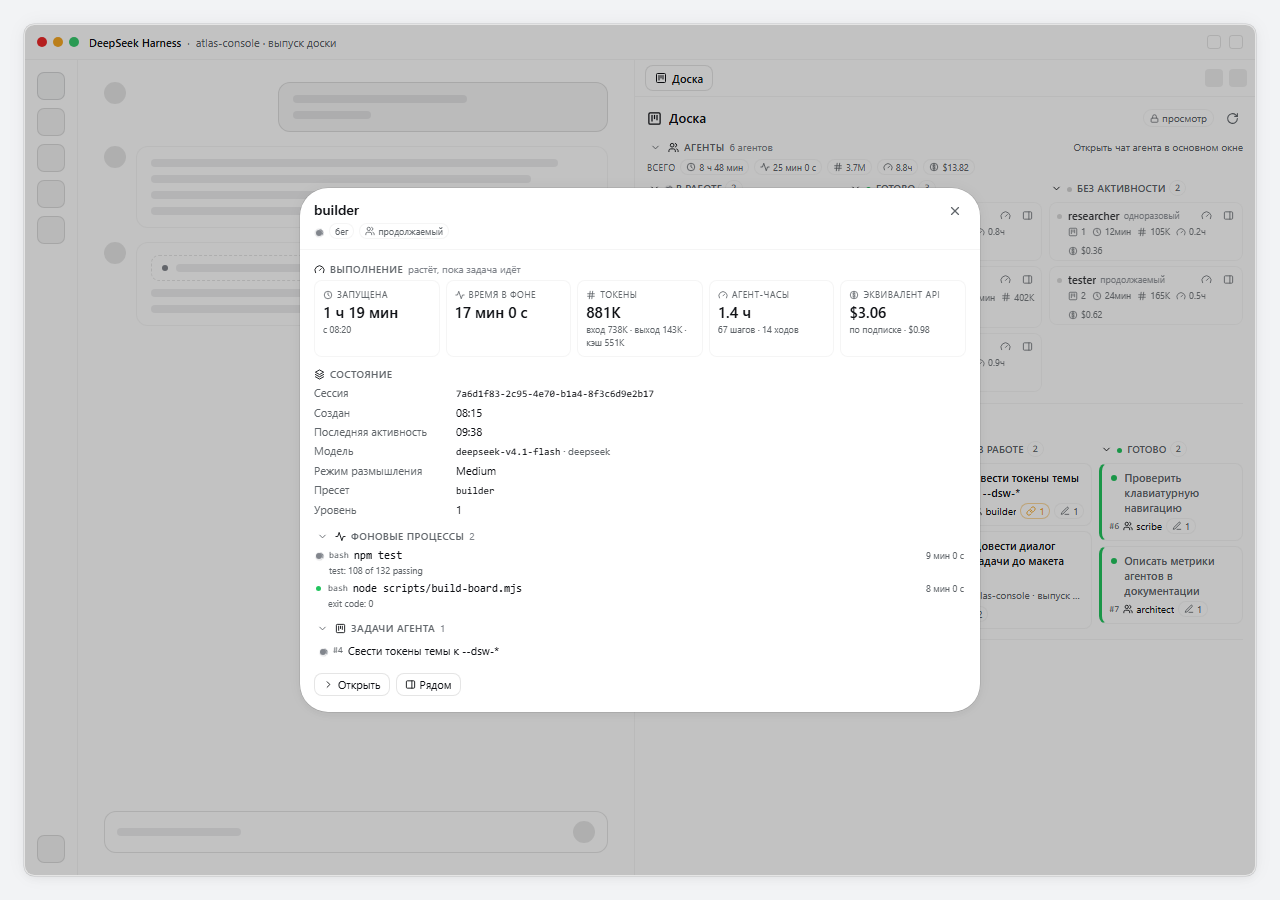
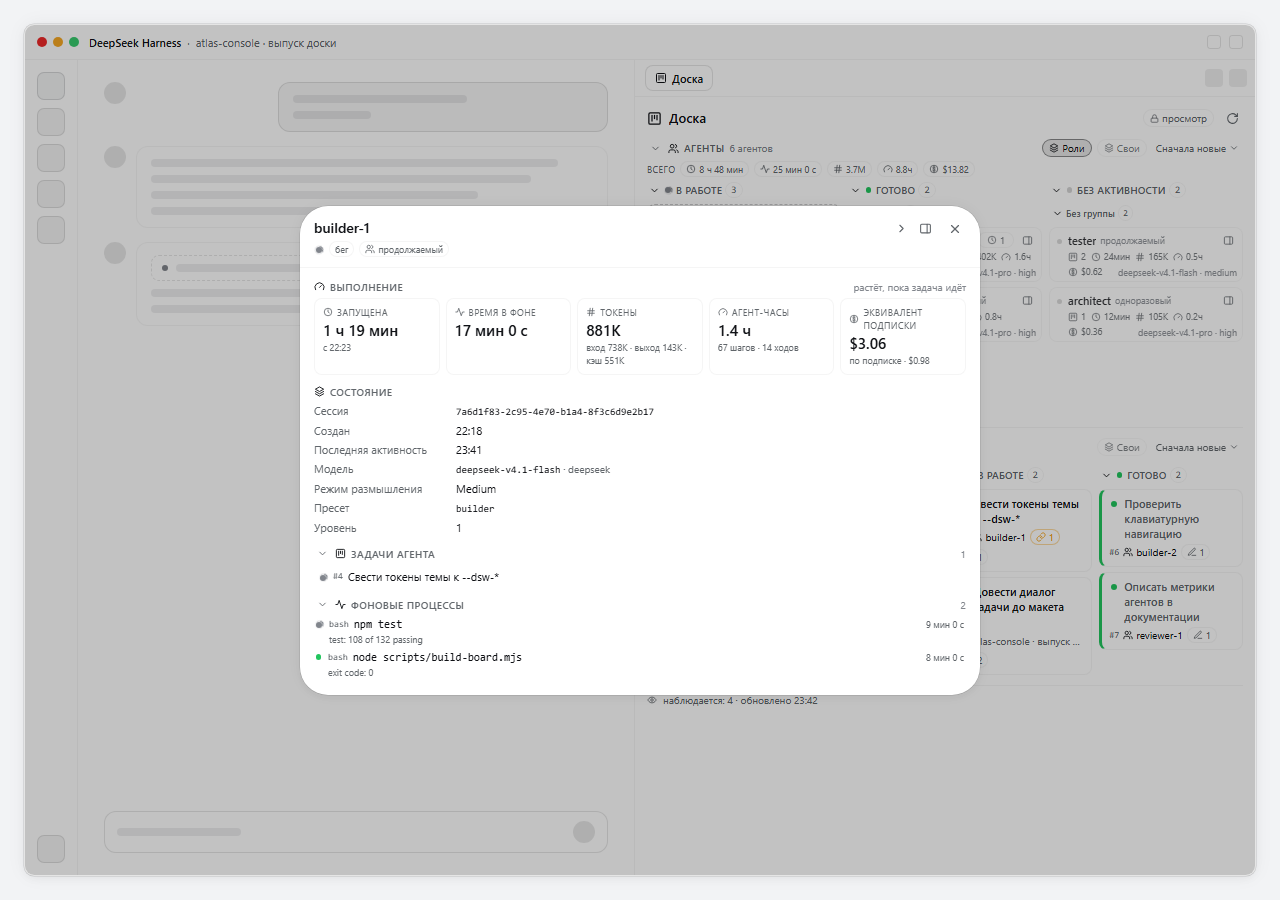
docs(screenshots): refresh the 0.2.0 previews

diff --git a/docs/dev/SCREENSHOTS.md b/docs/dev/SCREENSHOTS.md
@@ -76,7 +76,8 @@ liveness, so a renamed screenshot must be updated here in the same commit.
 ## Notes
 
 - The agent dialog shows five metric tiles (run time, background time, tokens, agent-hours, API
-  equivalent), the foldable background-process block and the task list.
+  equivalent), then the task list and the background-process block, tasks first; each list is its own
+  scroll box.
 - The mocks always render the block sections expanded; the fold controls and the scroll boxes are in
   the markup, but a short list shows no scrollbar.
 - The native column count is breakpoint-driven; the mock pins the four-column layout and widens the
